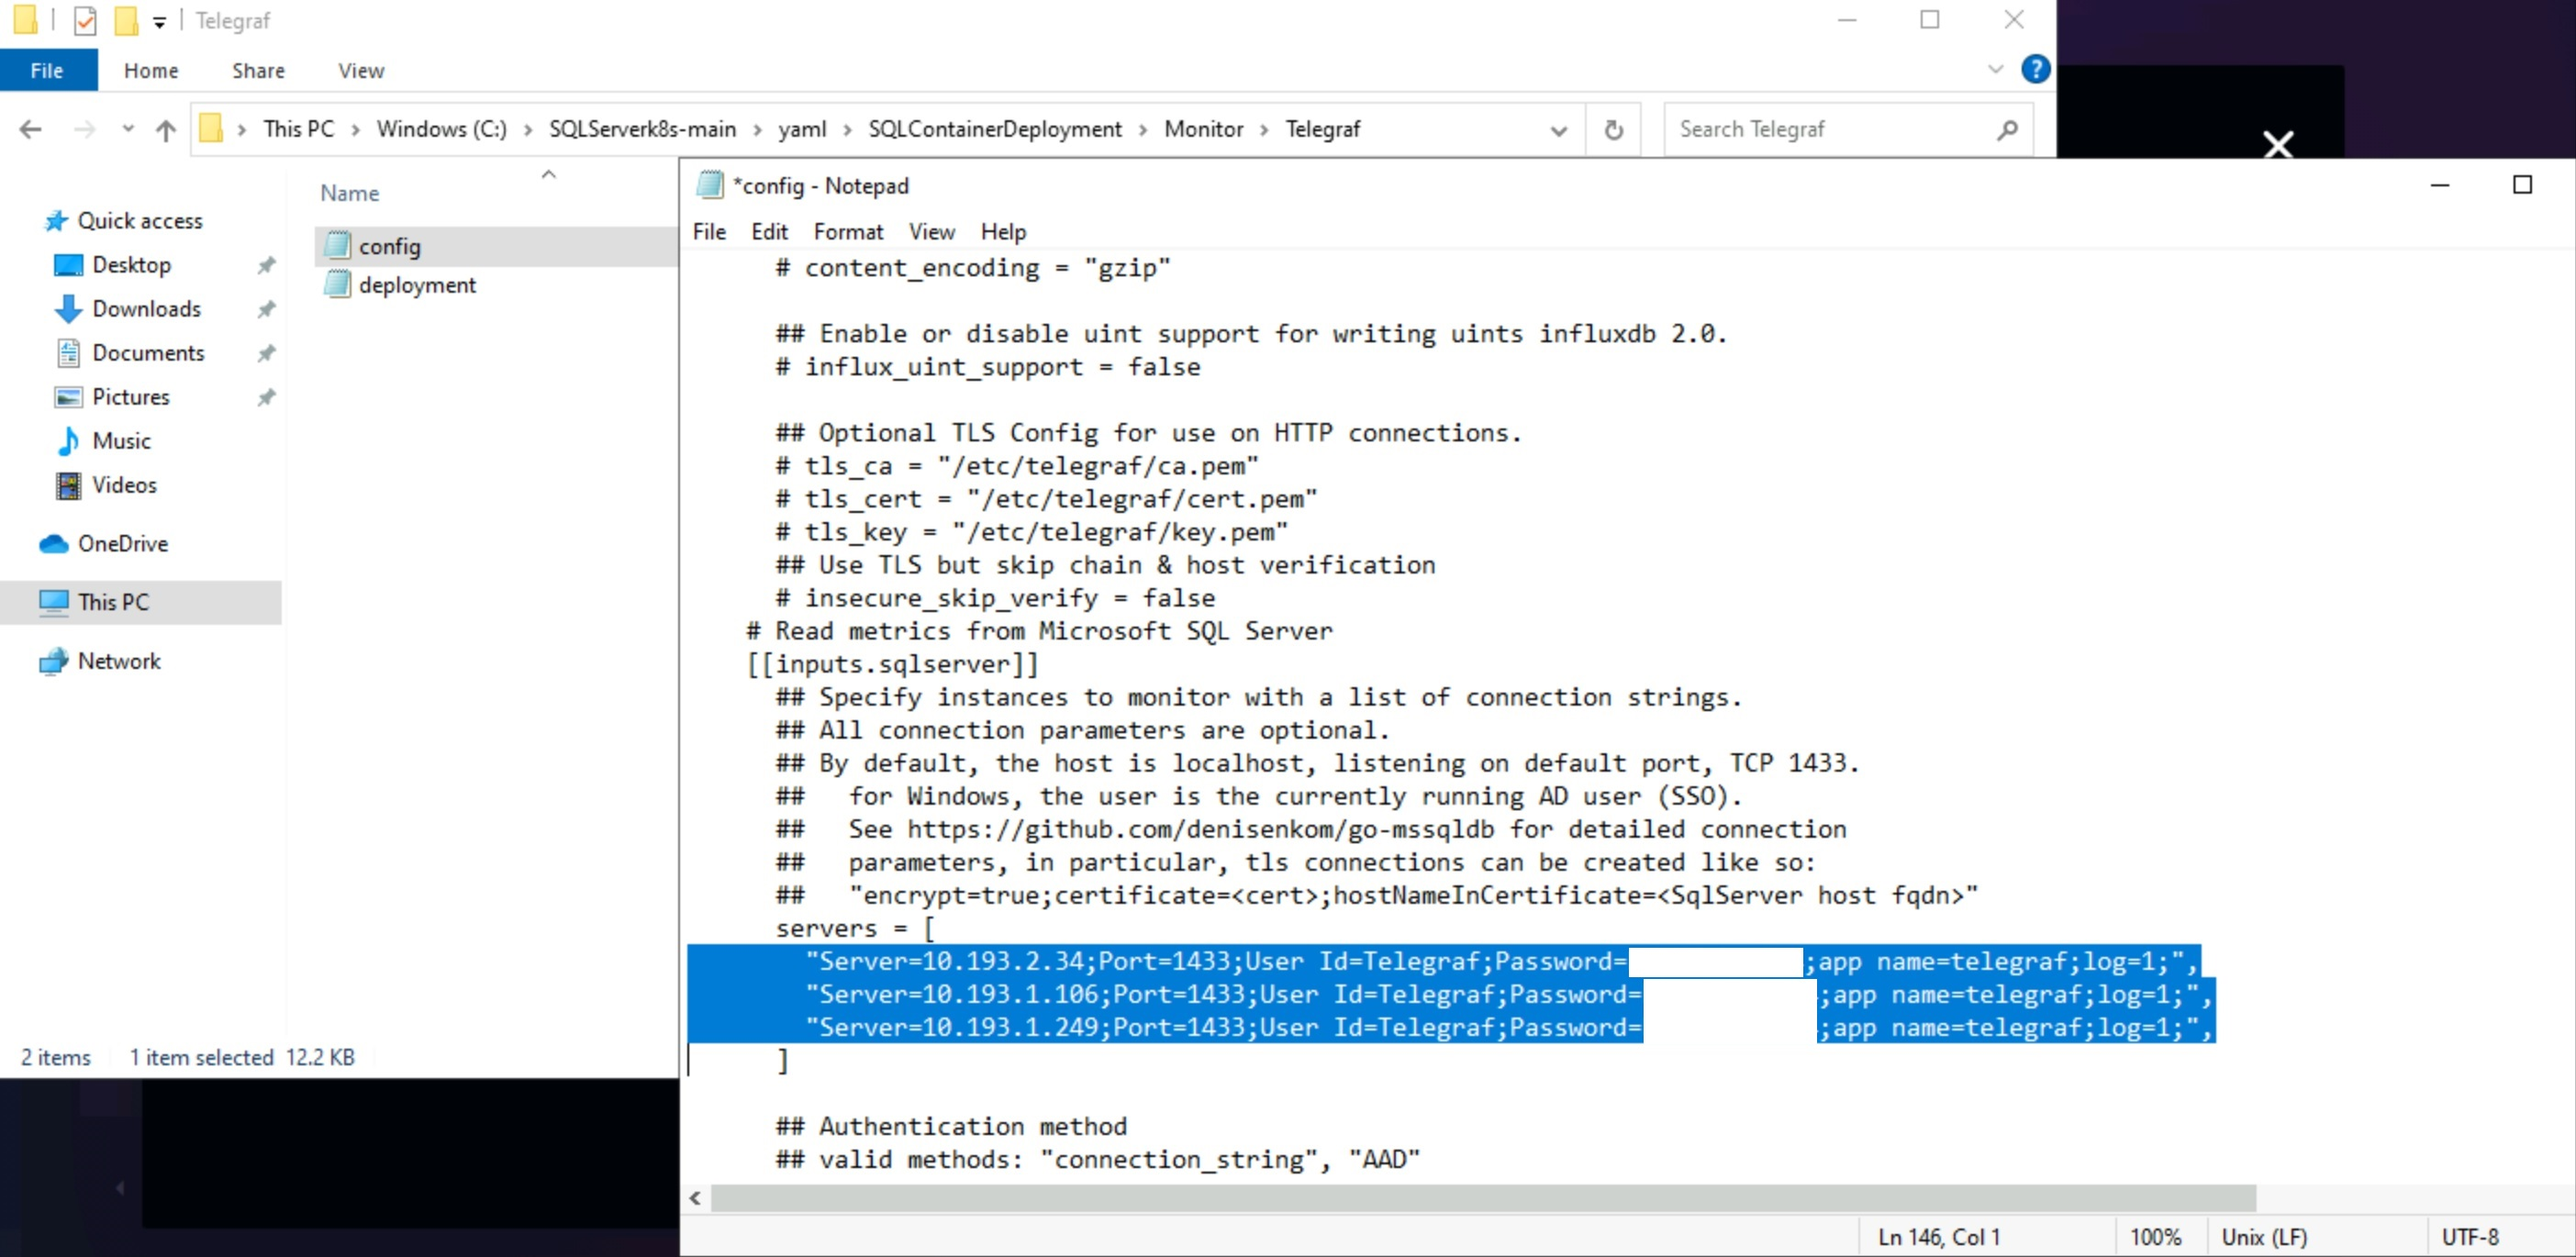
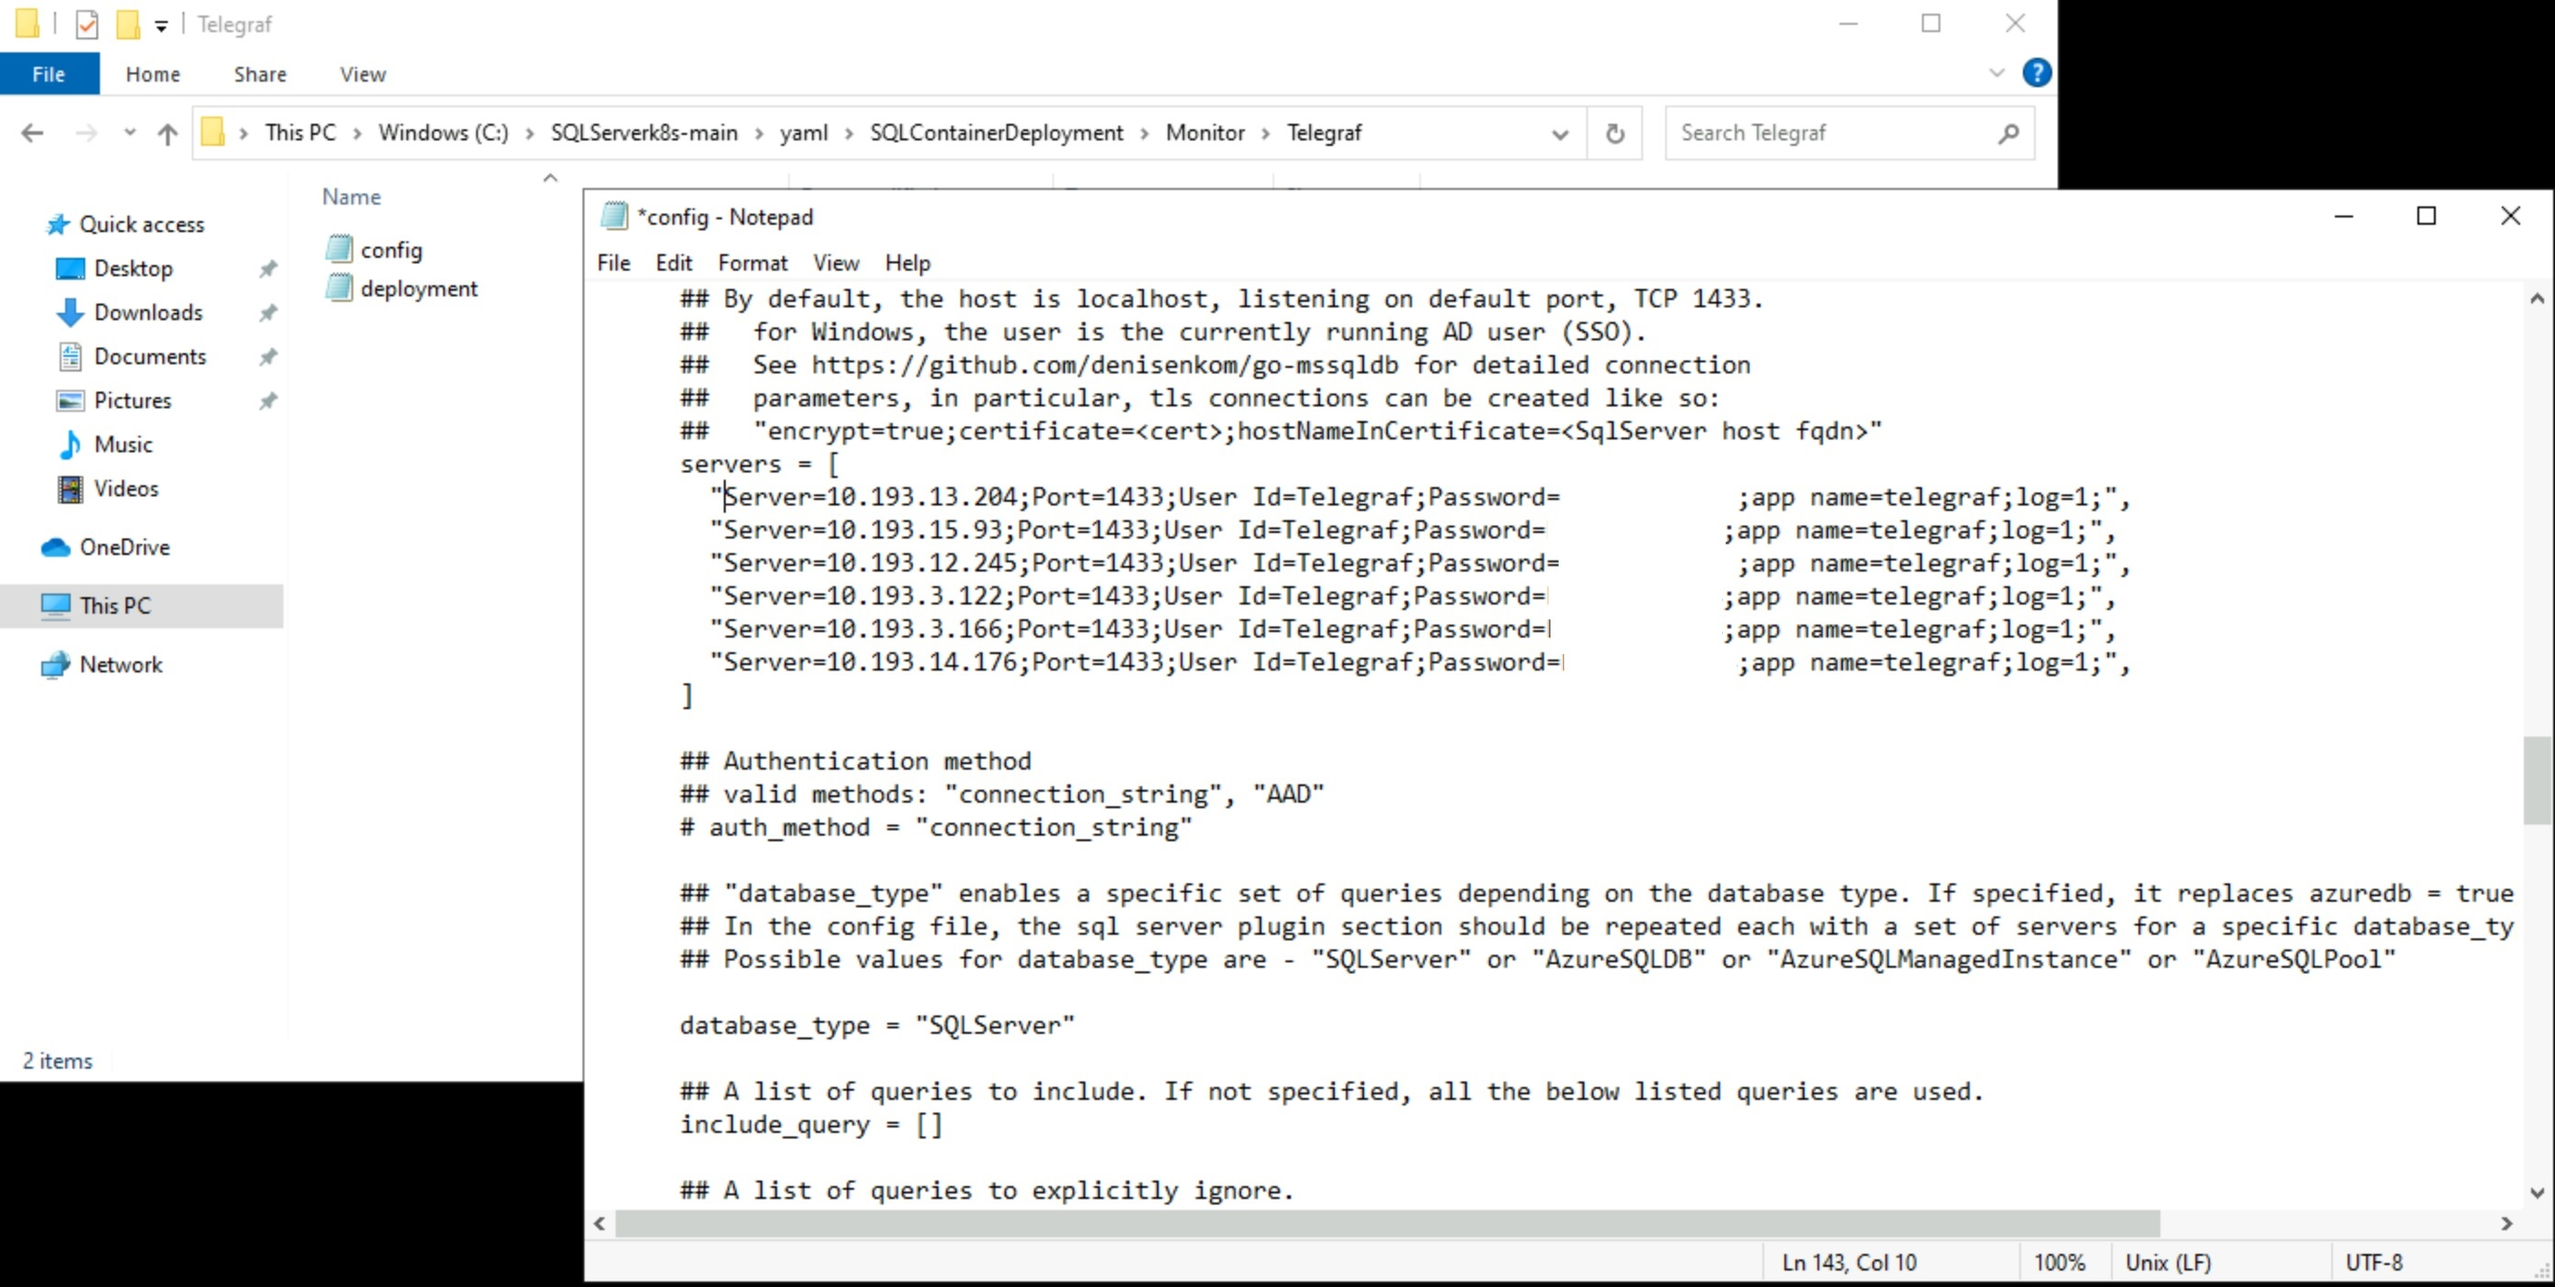
Update monitor.md

Changed region(s): [[0.0, 0.0, 1.0, 1.0], [0.0, 0.1533, 0.125, 0.5518], [0.0, 0.0, 0.1562, 0.092]]

diff --git a/modules/monitor.md b/modules/monitor.md
@@ -109,9 +109,11 @@ For this solution, you will be using InfluxDB to store the metric data, Telegraf
     
     Replace line 11 within the servers section and edit the ip address and password
 
-    **NB: To get the ip address info for the sql pods run \"kubectl get services -n sql19\" or \"kubectl get services -n sql22\"**
+    **NB: To get the ip address info for the sql pods run \"kubectl get services -n sql19\" and\/or \"kubectl get services -n sql22\"**
 
-    ![Verify SQL Services](media/VerifySQLServices.jpg)
+    ![Verify SQL 2019 Services](media/VerifySQLServices19.jpg)
+
+    ![Verify SQL 2022 Services](media/VerifySQLServices22.jpg)
 
     For SQL Server 2019
 
@@ -129,7 +131,7 @@ For this solution, you will be using InfluxDB to store the metric data, Telegraf
         "Server=<mssql22-2-lb ClusterIP>;Port=1433;User Id=Telegraf;Password=<azurePassword>;app name=telegraf;log=1;",
     ```
 
-    Copy the server entries (lines 11-13) and then click **Save and Test**
+    Copy the server entries (lines 11-13 for one instance or 11-16 for both) and then click **Save and Test**
 
     ![Edit InfluxDB Config](media/EditInfluxDBConfig.jpg)
 
